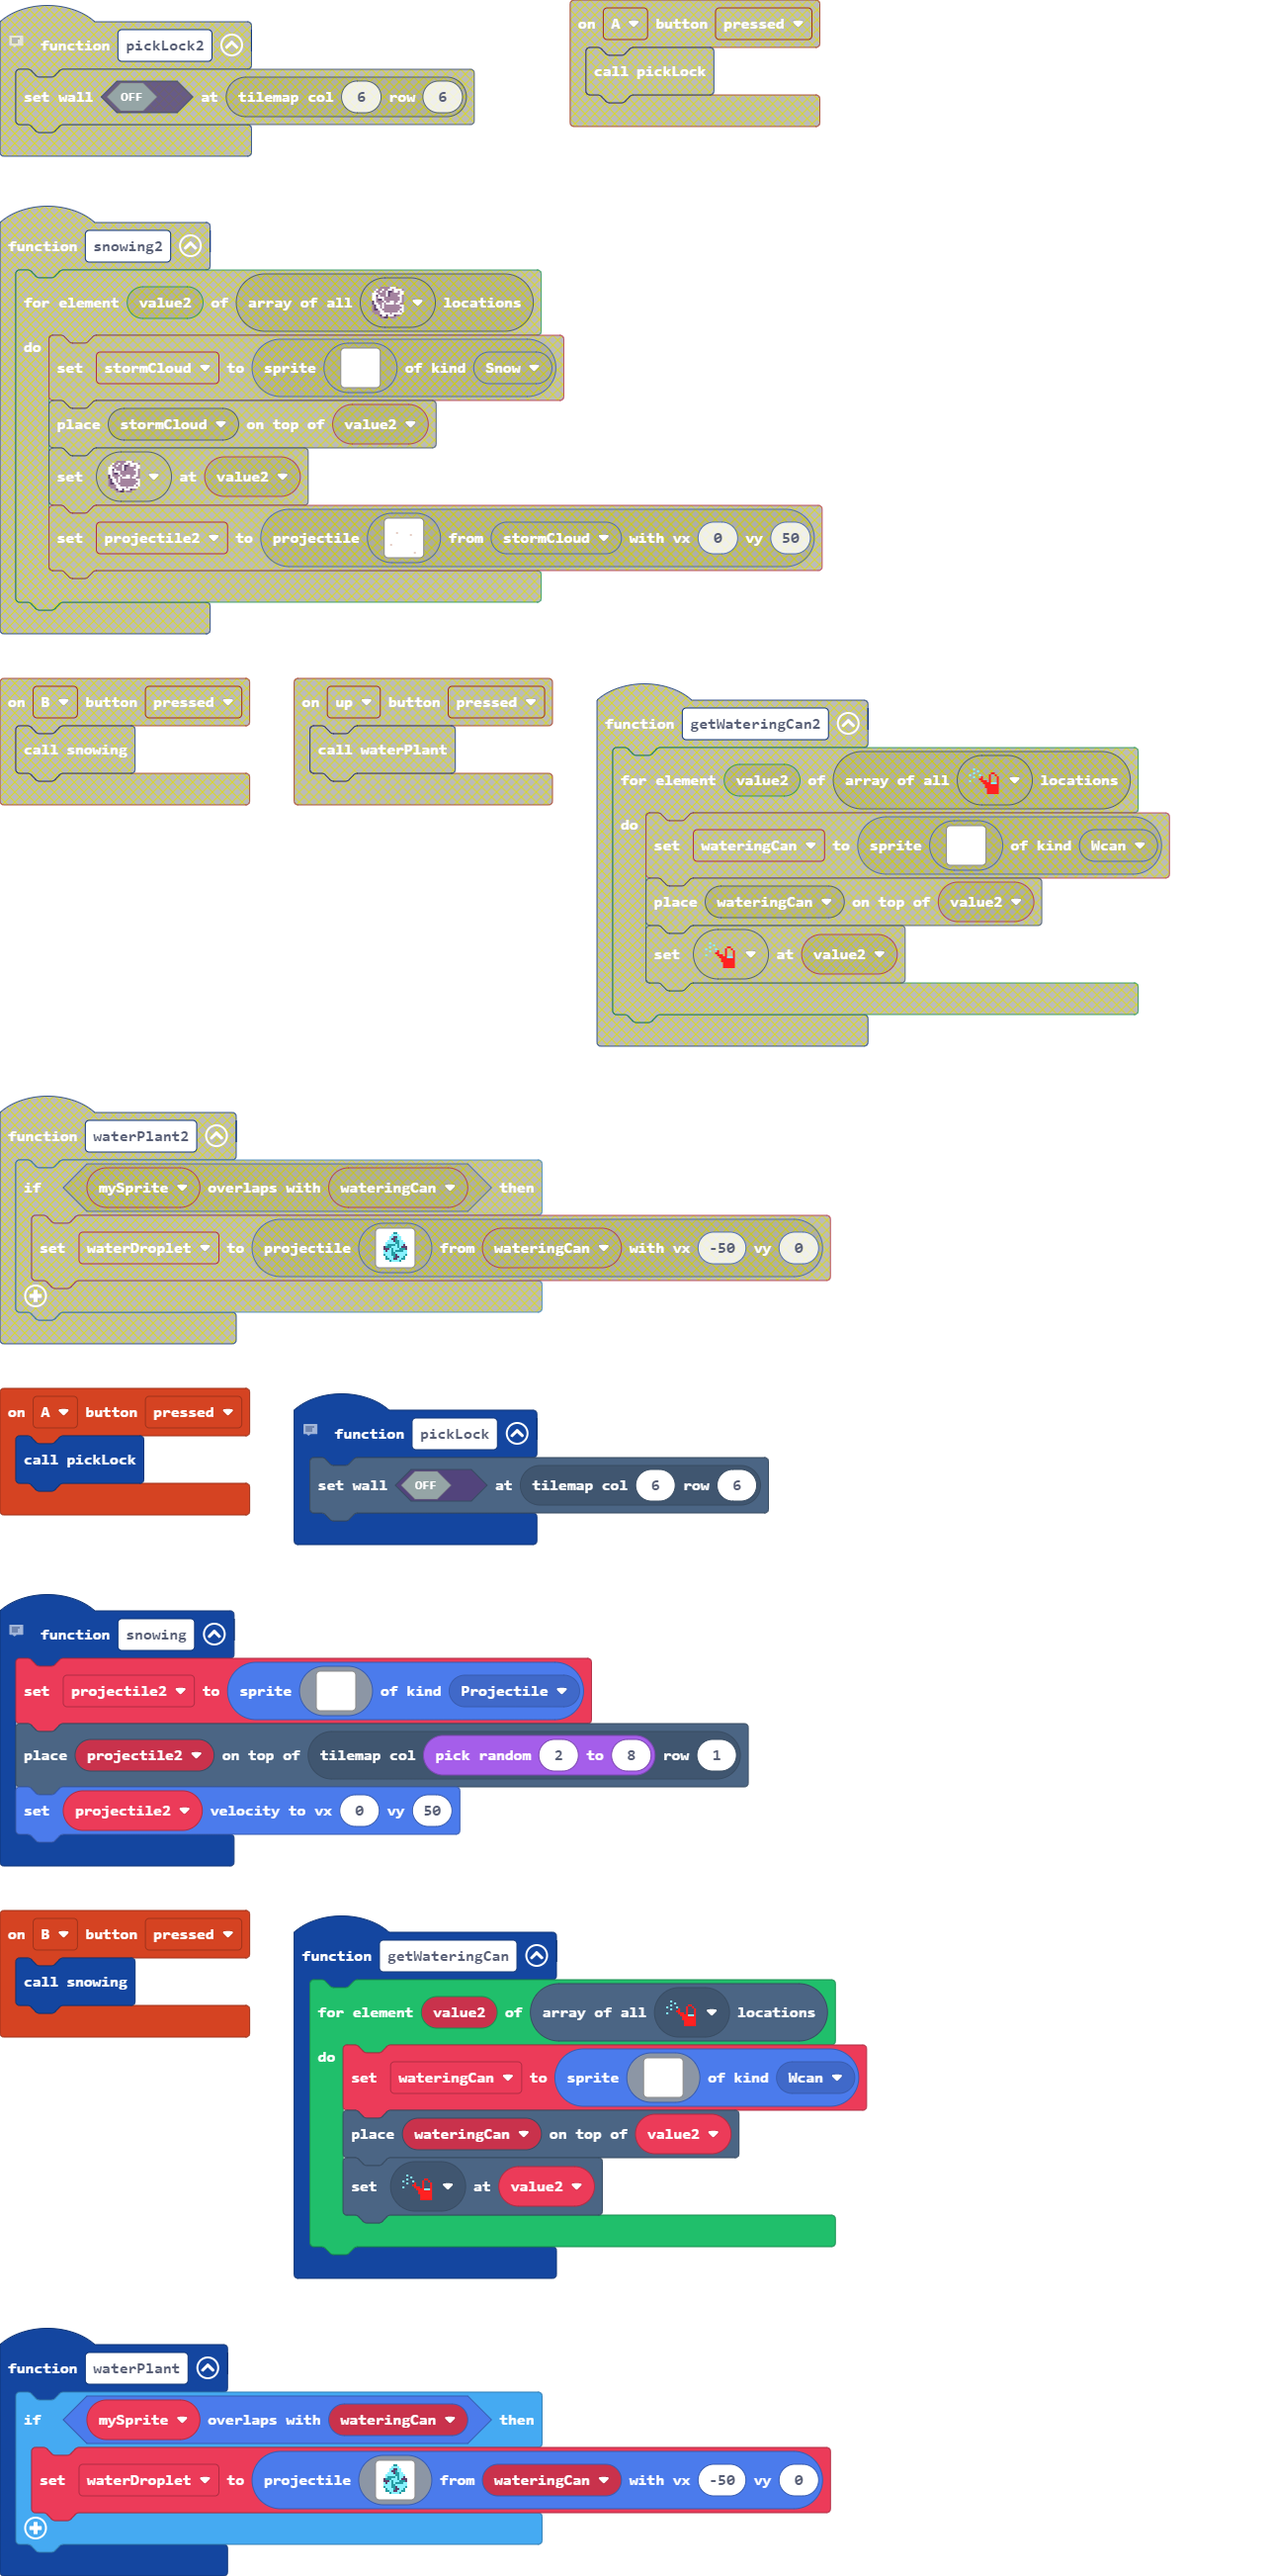
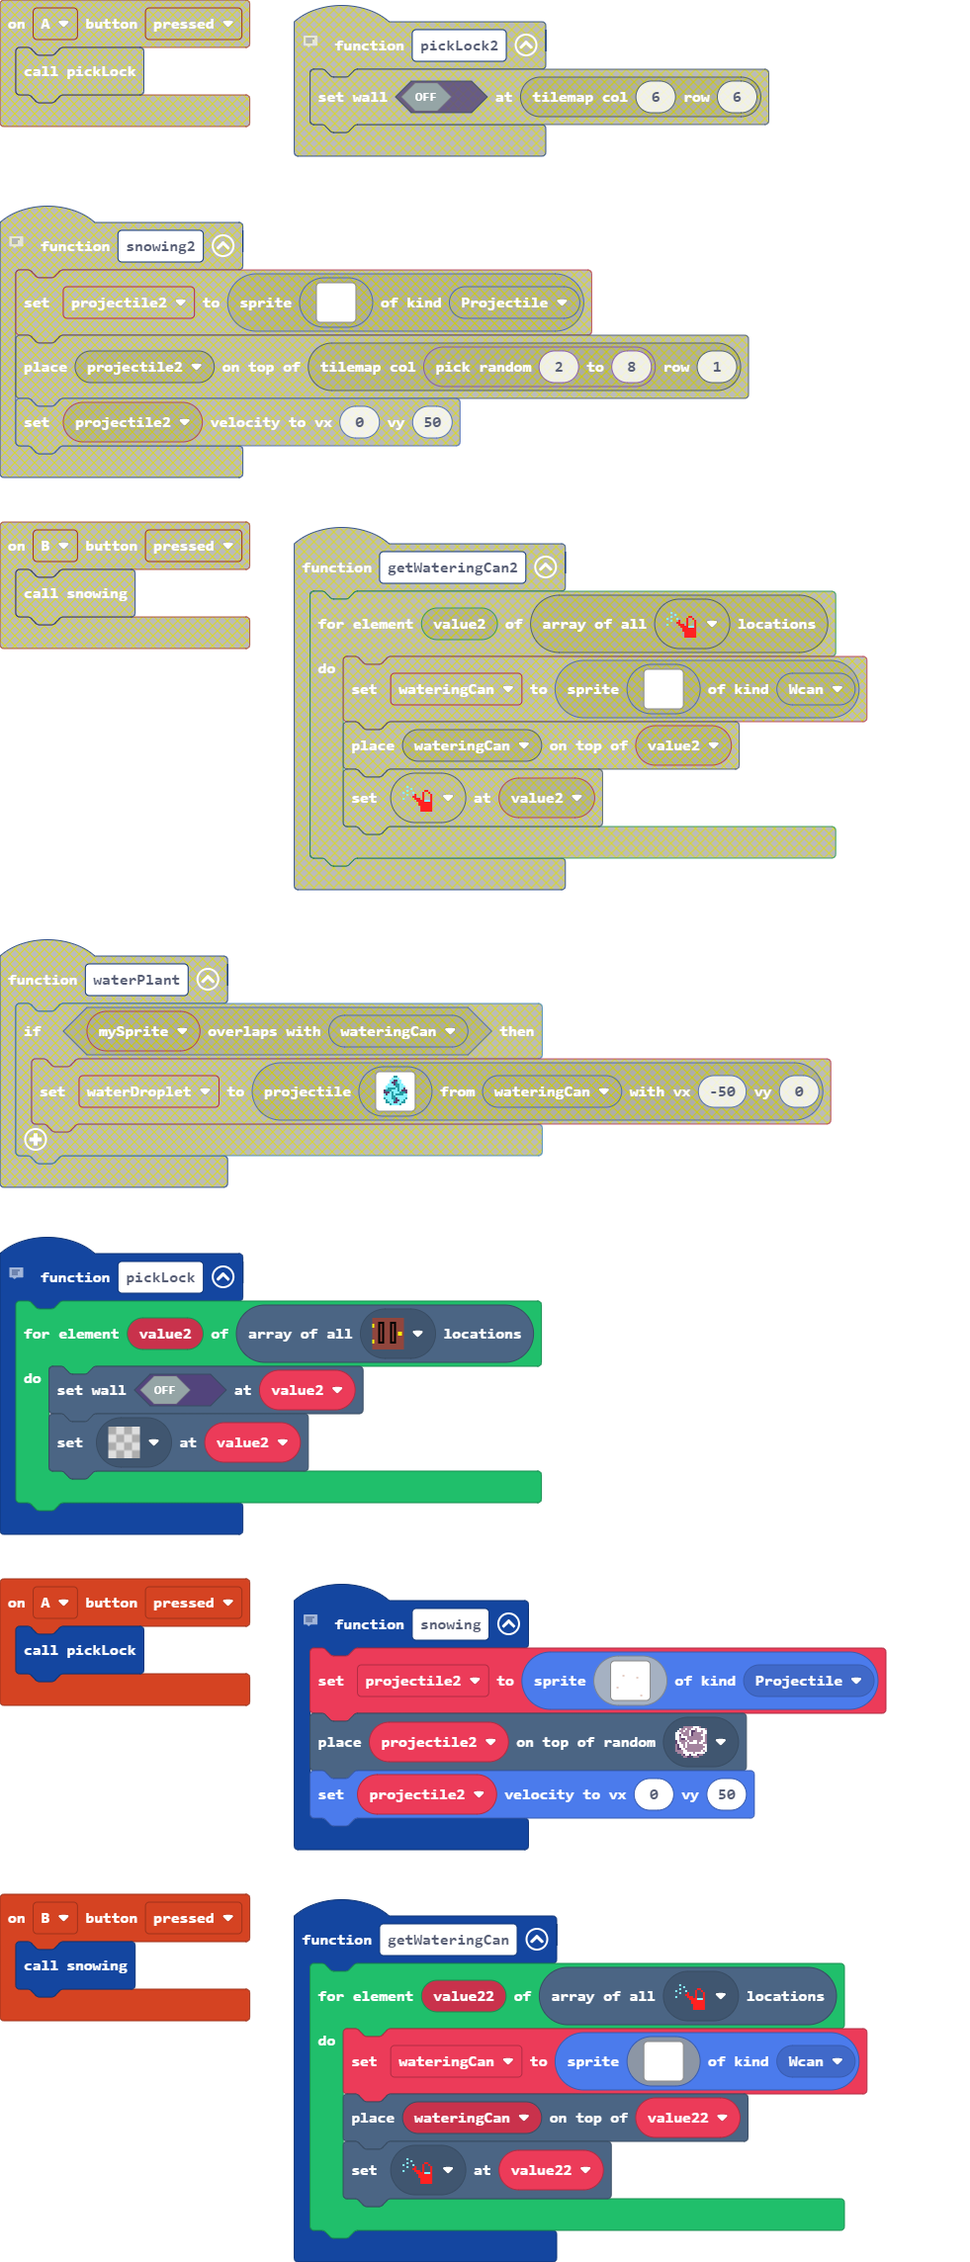
snow falls from random cloud

diff --git a/coreGame.ts b/coreGame.ts
@@ -292,17 +292,28 @@ function setLevelTileMap (level: number) {
             2 2 2 2 2 2 2 2 2 2
         `, [myTiles.transparency16,myTiles.tile2,myTiles.tile3,myTiles.tile6,myTiles.tile1,myTiles.tile10,myTiles.tile5], TileScale.Sixteen))
     } else if (level == 1) {
[2 lines of base64/hex data omitted]
             . . . . . . . . . .
             . . . . . . . . . .
             . . . . . . . . . .
             . . . . . . . . . .
             . . . . . . . . . .
-            2 . . . . . . . . .
-            2 . . . . . . . . .
-            2 2 . . . . . . . 2
-        `, [myTiles.transparency16,myTiles.tile1,myTiles.tile6,sprites.dungeon.hazardLava1,myTiles.tile14,myTiles.tile5,myTiles.tile13,myTiles.tile22], TileScale.Sixteen))
+            . . . . . . . . . .
+            . . . . . . . . . .
+            2 . . . . . . . . 2
+        `, [myTiles.transparency16,myTiles.tile1,myTiles.tile6,myTiles.tile14,myTiles.tile5,myTiles.tile13,sprites.dungeon.hazardLava1], TileScale.Sixteen))
     } else if (level == 2) {
[1 lines of base64/hex data omitted]
+            . . . . . . . . . .
+            . . . . . . . . . .
+            . . . . . . . . . .
+            . . . . . . . . . .
+            . . . . . . . . . .
+            . . . . . . . . . .
+            . . . . . . . . . .
+            2 2 2 2 2 2 2 2 2 2
+        `, [myTiles.transparency16,myTiles.tile1,myTiles.tile6,sprites.castle.tilePath5,myTiles.tile24,myTiles.tile25,myTiles.tile26], TileScale.Sixteen))
+    } else if (level == 3) {
[1 lines of base64/hex data omitted]
             2 2 2 2 2 2 2 2 . .
             2 2 2 . . . . . . .
@@ -313,17 +324,6 @@ function setLevelTileMap (level: number) {
             2 . . . . . . . . .
             2 2 2 2 2 2 2 2 2 2
         `, [myTiles.transparency16,myTiles.tile6,myTiles.tile12,myTiles.tile15,myTiles.tile16,myTiles.tile17,myTiles.tile7,myTiles.tile19,myTiles.tile20], TileScale.Sixteen))
-    } else if (level == 3) {
-        tiles.setTilemap(tiles.createTilemap(hex`2000080000000000000000000000000300000007000000070000070007000000000000000000000000000000000000030000000000000000000000000000000000000000000000000000000300000003000000000000000000000000000000000000000000000000000300030000000000000000000000000000000000000000000000000000000303030303030303030303030303030303030303030303030303030300000000030000050000050005000005000500000500050000000500000005000000060303010000040004000000040000000000040000000400000004000000030202020302020202020202020202020202020202020202020202020202020203`, img`
-            . . . . . . . . . . . 2 . . . . . . . . . . . . . . . . . . . . 
-            . . . . . . . . . . . 2 . . . . . . . . . . . . . . . . . . . . 
-            . . . . . . . 2 . . . 2 . . . . . . . . . . . . . . . . . . . . 
-            . . . . . 2 . 2 . . . . . . . . . . . . . . . . . . . . . . . . 
-            . . . 2 2 2 2 2 2 2 2 2 2 2 2 2 2 2 2 2 2 2 2 2 2 2 2 2 2 2 2 . 
-            . . . 2 . . . . . . . . . . . . . . . . . . . . . . . . . . . . 
-            . . 2 2 . . . . . . . . . . . . . . . . . . . . . . . . . . . 2 
-            2 2 2 2 2 2 2 2 2 2 2 2 2 2 2 2 2 2 2 2 2 2 2 2 2 2 2 2 2 2 2 2 
-            `, [myTiles.transparency16,myTiles.tile1,myTiles.tile2,myTiles.tile3,myTiles.tile4,myTiles.tile5,myTiles.tile6,myTiles.tile7], TileScale.Sixteen))
     } else if (level == 4) {
         tiles.setTilemap(tiles.createTilemap(hex`2000080000070700000000000000000000000000000000000000000000000000000000000000000000000000000000000000000000000000000000000000000000000000000000000000000000000000000000000000000000000000000000000000000000000000000000000000000000000000000000000000000005050500000000000000000000050005000000000005050000030303030003000000000000000000000000000000000000050505000000050305050505000300000000000000000000060003040404040404030404040404030404040404030000000000000100000202020302020202020203020202020203020202020203020202020202020202`, img`
             . . . . . . . . . . . . . . . . . . . . . . . . . . . . . . . . 
@@ -337,15 +337,15 @@ function setLevelTileMap (level: number) {
             `, [myTiles.transparency16,myTiles.tile1,myTiles.tile2,myTiles.tile3,myTiles.tile4,myTiles.tile5,myTiles.tile6,myTiles.tile7], TileScale.Sixteen))
     } else if (level == 5) {
         tiles.setTilemap(tiles.createTilemap(hex`2000080000070700000000000000000000000000000000000707000000000000000000000000000000000000000000000505000000000000000000000000000000000000000000000000000000000000050300000000000000000000000000000000000000000000000000000005050003030000000000000000050505050000000000000000000000050005000303000005050000030303030000000000000000000003030000000003000300050505000000050300000000000000000000000000000303060003000305030400030400000003030004000004000004000000000100030302020302030203020203020202020303020202020202020202020202020203`, img`
-            . . . . . . . . . . . . . . . . . . . . . . . . . . . . . . . . 
-            . . . . . . . . . . . . . . . . . . . . . . . . . . . . . . . . 
-            . . . . . . . . . . . . . 2 . . . . . . . . . . . . . . . . . . 
-            . . . . . . . . . . . . 2 2 . . . . . . . . . . . . . . . . . . 
-            . . . . . . . . . 2 2 . . . . . . 2 2 2 2 . . . . . . . . . . 2 
-            2 . . . . 2 . 2 . . . . . . . . 2 . . . . . . . . . . . . . . 2 
-            2 . . 2 . 2 . 2 . . 2 . . . . 2 2 . . . . . . . . . . . . . . 2 
-            2 2 2 2 2 2 2 2 2 2 2 2 2 2 2 2 2 2 2 2 2 2 2 2 2 2 2 2 2 2 2 2 
-            `, [myTiles.transparency16,myTiles.tile1,myTiles.tile2,myTiles.tile3,myTiles.tile4,myTiles.tile5,myTiles.tile6,myTiles.tile7], TileScale.Sixteen))
+            . . . . . . . . . . . . . . . . . . . . . . . . . . . . . . . .
+            . . . . . . . . . . . . . . . . . . . . . . . . . . . . . . . .
+            . . . . . . . . . . . . . 2 . . . . . . . . . . . . . . . . . .
+            . . . . . . . . . . . . 2 2 . . . . . . . . . . . . . . . . . .
+            . . . . . . . . . 2 2 . . . . . . 2 2 2 2 . . . . . . . . . . 2
+            2 . . . . 2 . 2 . . . . . . . . 2 . . . . . . . . . . . . . . 2
+            2 . . 2 . 2 . 2 . . 2 . . . . 2 2 . . . . . . . . . . . . . . 2
+            2 2 2 2 2 2 2 2 2 2 2 2 2 2 2 2 2 2 2 2 2 2 2 2 2 2 2 2 2 2 2 2
+        `, [myTiles.transparency16,myTiles.tile1,myTiles.tile2,myTiles.tile3,myTiles.tile4,myTiles.tile5,myTiles.tile6,myTiles.tile7], TileScale.Sixteen))
     }
     initializeLevel(level)
 }
@@ -759,6 +759,12 @@ function clearGame () {
     for (let value4 of sprites.allOfKind(SpriteKind.Flier)) {
         value4.destroy()
     }
+    for (let value5 of sprites.allOfKind(SpriteKind.Ice)) {
+        value5.destroy()
+    }
+    for (let value6 of sprites.allOfKind(SpriteKind.Lava)) {
+        value6.destroy()
+    }
 }
 sprites.onOverlap(SpriteKind.Player, SpriteKind.Flier, function (sprite, otherSprite) {
     info.changeLifeBy(-1)
@@ -822,7 +828,7 @@ function createEnemies () {
         animation.attachAnimation(flier, flierFlying)
         animation.attachAnimation(flier, flierIdle)
     }
-    // lava that burns player
+    //lava that burns player
     for (let value7 of tiles.getTilesByType(sprites.dungeon.hazardLava1)) {
         lava = sprites.create(sprites.dungeon.hazardLava1, SpriteKind.Lava)
         tiles.placeOnTile(lava, value7)
@@ -903,33 +909,36 @@ function spawnGoals () {
         tiles.setTileAt(value7, myTiles.transparency16)
     }
 }
+
+scene.onOverlapTile(SpriteKind.Projectile, sprites.dungeon.hazardLava1, function(sprite, location) {
+    tiles.setWallAt(location, true)
+    sprite.destroy()
+})
 sprites.onOverlap(SpriteKind.Projectile, SpriteKind.Lava, function (sprite, otherSprite) {
     sprite.startEffect(effects.blizzard, 1000)
+    otherSprite.setKind(SpriteKind.Ice)
+    otherSprite.setImage(img`
+        1 1 1 1 1 1 1 1 1 1 1 1 1 1 1 1
+        1 9 9 9 9 9 1 1 1 1 1 1 1 9 9 1
+        1 9 9 9 9 1 1 1 1 1 1 1 1 1 9 1
+        1 9 9 9 1 1 1 1 1 1 1 1 1 1 1 1
+        1 9 9 1 1 1 1 1 1 1 1 1 1 1 1 1
+        1 9 1 1 1 1 1 1 1 1 1 1 1 1 1 1
+        1 1 1 1 1 1 1 1 1 1 9 1 1 1 1 1
+        1 1 1 9 1 1 1 1 1 9 9 1 1 9 1 1
+        1 1 9 1 1 1 1 9 9 9 9 1 1 1 1 1
+        1 1 1 1 1 1 1 9 9 1 1 1 1 1 1 1
+        1 1 1 1 1 1 1 9 1 1 1 1 1 1 1 1
+        1 1 1 1 1 1 1 1 1 1 1 1 1 1 1 1
+        1 1 1 1 1 1 1 1 1 9 1 1 1 1 9 1
+        1 9 1 1 1 1 1 1 9 1 1 1 1 9 9 1
+        1 9 9 1 1 1 1 1 1 1 1 1 9 9 9 1
+        1 1 1 1 1 1 1 1 1 1 1 1 1 1 1 1
+    `)
     sprite.destroy()
-    otherSprite.destroy()
-    for (let index = 0; index <= 6; index++) {
-            tiles.setTileAt(tiles.getTileLocation(index + 2, 7), img`
-                1 1 1 1 1 1 1 1 1 1 1 1 1 1 1 1
-                1 9 9 9 9 1 1 1 1 1 1 1 1 9 9 1
-                1 9 9 9 1 1 1 1 1 1 1 1 1 1 9 1
-                1 9 9 1 1 1 1 1 1 1 1 9 1 1 1 1
-                1 9 1 1 1 1 1 1 1 1 9 9 1 1 1 1
-                1 1 1 1 1 1 1 1 1 9 9 1 1 1 1 1
-                1 1 1 1 1 1 1 1 9 9 9 1 1 1 1 1
-                1 1 1 1 9 1 1 1 9 1 1 1 1 1 1 1
-                1 1 1 9 1 1 1 1 1 1 1 1 1 9 1 1
-                1 1 1 1 1 1 1 1 1 1 1 1 9 1 1 1
-                1 1 1 1 1 1 1 1 9 1 1 1 1 1 1 1
-                1 1 1 1 1 1 1 9 9 1 1 1 1 1 1 1
-                1 1 1 1 1 1 9 9 9 1 1 1 1 1 9 1
-                1 9 1 1 1 1 1 1 1 1 1 1 1 9 9 1
-                1 9 9 1 1 1 1 1 1 1 1 1 9 9 9 1
-                1 1 1 1 1 1 1 1 1 1 1 1 1 1 1 1
-            `)
-            tiles.setWallAt(tiles.getTileLocation(index + 2, 7), true)
-        }
 })
 
+    
 let heroFacingLeft = false
 let coin: Sprite = null
 let playerStartLocation: tiles.Location = null

diff --git a/main.ts b/main.ts
@@ -4,28 +4,27 @@ namespace SpriteKind {
 }
 let projectile2: Sprite = null
 let wateringCan: Sprite = null
-let waterDroplet: Sprite = null
 // add to puzzle
 function snowing () {
     projectile2 = sprites.create(img`
         . . . . . . . . . . . . . . . . 
-        . . . . . . . . . . . . . . . . 
-        . . 1 1 . . . . . . 1 1 . . . . 
-        . . 1 1 . . . . . . 1 1 . . . . 
-        . . . . . . . . . . . . . . . . 
-        . . . . . . . . . . . . . . . . 
-        . . . . . . . . . . . . . 1 1 . 
-        . . . . 1 1 . . . . . . . 1 1 . 
-        . . . . 1 1 . . . . . . . . . . 
-        . . . . . . . . . . . . . . . . 
-        . . . . . . . 1 1 . . . . . . . 
-        . . . . . . . 1 1 . . . . . . . 
-        . . . . . . . . . . . . . . . . 
+        . . . 1 . . . . . . . . . . 1 . 
+        . . . . . . . . 1 1 . . . . . . 
+        . 1 1 . . . . . 1 1 . . . . . . 
         . 1 1 . . . . . . . . . . . . . 
-        . 1 1 . . . . . . . . . . . . . 
+        . . . . d . 1 . . . . . . . . . 
+        . . . . . . . . . . . d . . . . 
         . . . . . . . . . . . . . . . . 
+        . . . . 1 . . . . . . . . 1 . . 
+        . . . . . . . . . 1 1 . . . . . 
+        . . . . . . . . . 1 1 . . . . . 
+        . d . . . . . . . . . . . . . . 
+        . . . . . . . . . . . . . . . . 
+        . . . . . . 1 1 . . . . . . . . 
+        . . . . . . 1 1 . . . . . . . . 
+        . . . . . . . . . . . . . d . . 
         `, SpriteKind.Projectile)
-    tiles.placeOnTile(projectile2, tiles.getTileLocation(randint(2, 8), 1))
+    tiles.placeOnRandomTile(projectile2, myTiles.tile14)
     projectile2.setVelocity(0, 50)
 }
 controller.B.onEvent(ControllerButtonEvent.Pressed, function () {
@@ -36,33 +35,13 @@ controller.A.onEvent(ControllerButtonEvent.Pressed, function () {
 })
 // add to puzzle
 function pickLock () {
-    tiles.setWallAt(tiles.getTileLocation(6, 6), false)
-}
-function waterPlant () {
-    let mySprite: Sprite = null
-    if (mySprite.overlapsWith(wateringCan)) {
-        waterDroplet = sprites.createProjectileFromSprite(img`
-            . . . . . . . 6 6 . . . . . . . 
-            . . . . . . 9 9 9 9 . . . . . . 
-            . . . . . 9 9 c c 9 9 . . . . . 
-            . . . . . 9 c c 6 9 9 . . . . . 
-            . . . . 9 9 9 c 6 6 9 9 . . . . 
-            . . . 9 9 9 9 9 6 6 9 9 9 . . . 
-            . . . 9 6 6 6 6 9 6 9 9 c . . . 
-            . . c 6 6 6 9 9 9 6 9 c c c . . 
-            . . c c c 9 6 9 9 9 6 6 6 c . . 
-            . . 9 c 9 9 6 9 6 6 6 6 9 9 . . 
-            . . 9 9 9 9 6 6 9 9 9 9 9 9 . . 
-            . . 6 9 9 9 6 6 c 9 9 9 9 6 . . 
-            . . . 6 9 9 9 6 c c 9 9 6 . . . 
-            . . . 6 6 9 9 c c 9 9 6 6 . . . 
-            . . . . . 6 9 9 9 9 6 . . . . . 
-            . . . . . . . . . . . . . . . . 
-            `, wateringCan, -50, 0)
+    for (let value2 of tiles.getTilesByType(myTiles.tile10)) {
+        tiles.setWallAt(value2, false)
+        tiles.setTileAt(value2, myTiles.transparency16)
     }
 }
 function getWateringCan () {
-    for (let value2 of tiles.getTilesByType(myTiles.tile20)) {
+    for (let value22 of tiles.getTilesByType(myTiles.tile20)) {
         wateringCan = sprites.create(img`
             . . . . . . . . . . . . . . . . 
             . . . . . . . . . . . . . . . . 
@@ -81,7 +60,7 @@ function getWateringCan () {
             . . . . . . . . . . . . . . . . 
             . . . . . . . . . . . . . . . . 
             `, SpriteKind.Wcan)
-        tiles.placeOnTile(wateringCan, value2)
-        tiles.setTileAt(value2, myTiles.tile20)
+        tiles.placeOnTile(wateringCan, value22)
+        tiles.setTileAt(value22, myTiles.tile20)
     }
 }

diff --git a/tilemap.g.ts b/tilemap.g.ts
@@ -48,6 +48,12 @@ namespace myTiles {
     export const tile22 = image.ofBuffer(hex``);
     //% fixedInstance jres blockIdentity=images._tile
     export const tile23 = image.ofBuffer(hex``);
+    //% fixedInstance jres blockIdentity=images._tile
+    export const tile24 = image.ofBuffer(hex``);
+    //% fixedInstance jres blockIdentity=images._tile
+    export const tile25 = image.ofBuffer(hex``);
+    //% fixedInstance jres blockIdentity=images._tile
+    export const tile26 = image.ofBuffer(hex``);
 
 }
 // Auto-generated code. Do not edit.
